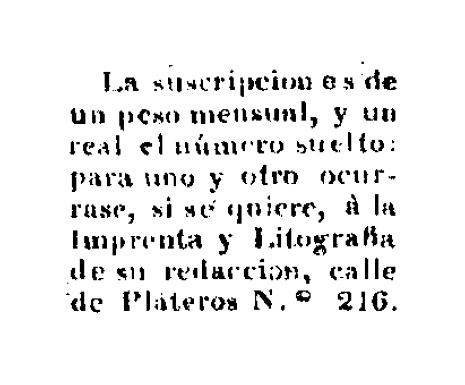
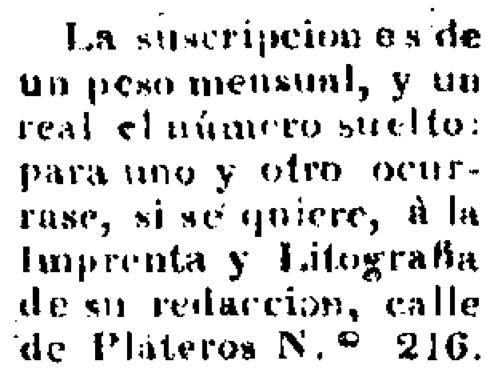
Se arreglo ejecucion de plt.figure( para articulo matplotlib backend

diff --git a/templates/codigo2.html b/templates/codigo2.html
@@ -4,7 +4,7 @@
     {% set languages = ["HTML", "CSS", "Javascript", "Python", "Ruby", "PHP", "Java"] %}
 
     <form action="/codigo" enctype="multipart/form-data">
-        <h1>RESULTADOS: </h1>
+        <h1>RESULTADOS DE PRUEBA: {{pr}} </h1>
         <ul>
             {% for n in nu %}
             <hr />
@@ -15,12 +15,12 @@
             <img src="{{ fn1[nu[n]] }}" alt="Imagen" class="image" alt="IMAGEN 1">
         </figure>
         <figure>
-            <figcaption style="text-align: center;"><code>Texto</code></figcaption>
+            <figcaption style="text-align: center;"><code>Texto de OCR</code></figcaption>
             <div class="text" >{{ txt[nu[n]] }}</div>
         </figure>
         <figure>
-            <figcaption style="text-align: center;"><code>% Reconocimiento</code></figcaption>
-            <div class="text"> {{ nu[n] }}</div>
+            <figcaption style="text-align: center;"><code>Texto Corregido</code></figcaption>
+            <div class="text"> {{ tcorr[n] }}</div>
         </figure>
         </div>
 

diff --git a/app.py b/app.py
@@ -6,6 +6,7 @@ UNSA-FIPS-DCC, 2025
 JMSF
 """
 filename=""
+pr=0
 from flask import Flask, render_template, request
 
 import os
@@ -20,6 +21,7 @@ except ImportError:
     from PIL import Image
 import prep_gvfc_balloon_1 as prp1
 import prep_gvfc_balloon_2 as prp2
+import post_pnorv_1 as postp1
 #import prep_balloon_final as prp2
 #import prep_gvfc_balloon_2 as prp2
 
@@ -75,7 +77,7 @@ def contacto():
 
 @app.route("/uploader", methods=['POST'])
 def uploader():
-    global filename
+    global filename,pr
     if request.method == "POST":
         oimg = request.form.get('otra')
         if oimg=='Otra Imagen':
@@ -86,6 +88,9 @@ def uploader():
             f = request.files['archivo']
 #        f = request.FILES['ufile'].file.name
             filename = secure_filename(f.filename)       # Nom Arch
+            if filename=="":
+               return render_template("codigo1.html", app_data=app_data, fn=filename)
+                
         filename1 = os.path.join(ruta, filename)         # Ruta+nom Arch
         fn,ex = os.path.splitext(filename)               # Nom Arch, Ext
         print("filename: ",filename)
@@ -98,45 +103,53 @@ def uploader():
         mtxt = []
         mimg = []
         mnum = []
+        mpst = []
         n=0
         ti=[]
         for s in su:
             print(int(s))
             if int(s)==0:
                 nu="0"
-                mtxt.append(ocrt(fn,imagen,nu))               # imagen original, ocr 0
-                mimg.append(filename1)
-                mnum.append(n)
-                ti.append("Imagen Original")
+                mimg.append(filename1)                        # Nomb imagen original
+                mtxt.append(ocrt(fn,imagen,nu))               # Agrega texto de ocr 0
+                mpst.append(postp1.palabr(ruta,fn+nu))        # Agrega texto corregido
+                mnum.append(n)                                # Agrega Num opcion
+                ti.append("Imagen Original")                  # Agrega titulo Imagen
             if int(s)==1:       
                 nu="1"
-                img,fn1 = prp1.preproc(imagen,fn+nu,ruta)      # imagen de preproceso 1
+                img,fn1 = prp1.preproc(imagen,fn+nu,ruta)      
+                mimg.append(fn1)                               # preproceso 1
                 mtxt.append(ocrt(fn,img,nu))                   # ocr 1
-                mimg.append(fn1)
+                mpst.append(postp1.palabr(ruta,fn+nu))         # Txt corregido 1
                 mnum.append(n)
                 ti.append("Imagen Algoritmo 1")
             if int(s)==2:       
                 nu="2"
-                img,fn2 = prp2.preproc2(imagen,fn+nu,ruta)     # preproceso 2
+                img,fn2 = prp2.preproc3(imagen,fn,nu,ruta)     
+                mimg.append(fn2)                               # preproceso 2
                 mtxt.append(ocrt(fn,img,nu))                   # ocr 2
-                mimg.append(fn2)
+                mpst.append(postp1.palabr(ruta,fn+nu))         # Txt corregido 2
                 mnum.append(n)
                 ti.append("Imagen Algoritmo 2")
             if int(s)==3:       
                 nu="3"
-                img,fn2 = prp2.preproc3(imagen,fn+nu,ruta)     # preproceso 3
-                mtxt.append(ocrt(fn,img,nu))                   # ocr 3
+                img,fn2 = prp2.preproc3(imagen,fn,nu,ruta)     # preproceso 3
                 mimg.append(fn2)
+                mtxt.append(ocrt(fn,img,nu))                   # ocr 3
+                mpst.append(postp1.palabr(ruta,fn+nu))         # Txt corregido 3
                 mnum.append(n)
                 ti.append("Imagen Algoritmo 3")
             n += 1
             print("mtxt: ",mtxt)
             print("mimg: ",mimg)
             print("mnum: ",mnum)
+            print("mpst: ",mpst)
+    pr+=1    
+    print("prueba: ",pr)
 #        mens=mult()
 #        graf()
 #    return render_template("codigo2.html", app_data=app_data, filename1=filename1, txt=mtxt)
-    return render_template("codigo2.html", app_data=app_data, fn1=mimg, txt=mtxt,nu=mnum,ti=ti)
+    return render_template("codigo2.html", app_data=app_data, fn1=mimg, txt=mtxt,tcorr=mpst,nu=mnum,ti=ti,pr=pr)
 
 def p_():
     f = request.files['archivo']

diff --git a/post_pnorv_1.py b/post_pnorv_1.py
@@ -52,37 +52,40 @@ def corregir(palabra):
     return max(correcciones(palabra), key=probabilidad)
 
 # Ejemplo de uso
-texto_1 = ['La siscripcion es de',
-    'un peso mesual, y un',
-    'real el llúmero suelto:',
-    'para iino y otro ocur-',
-    'rase, si se cjuiere, a la',
-    'Imprenta y Litiigrafia',
-    'de sii redacción, calle',
-    'de Plateros No 216']
+#texto_1 = ['La siscripcion es de',
+#    'un peso mesual, y un',
+#    'real el llúmero suelto:',
+#    'para iino y otro ocur-',
+#    'rase, si se cjuiere, a la',
+#    'Imprenta y Litiigrafia',
+#    'de sii redacción, calle',
+#    'de Plateros No 216']
 #for palabras_t in texto_1:
 #    print(f'Origen   : {palabras_t}')
 #    palabras_texto = palabras_t.split()
 #    texto_corregido = ' '.join(corregir(palabra) for palabra in palabras_texto)
 #    print(f'Corregido: {texto_corregido}')
 
-ruta="static"
-fn="hist_02"
-fn1=os.path.join(ruta, fn+".txt")
-fn2=os.path.join(ruta, fn+"1.txt")
-arch_1 = open(fn1,"r")
-arch_2 = open(fn2,"w")
+def palabr(ruta,fn):
+#ruta="static"
+#fn="hist_02"
+    fn1=os.path.join(ruta, fn+".txt")
+    fn2=os.path.join(ruta, fn+"1.txt")
+    arch_1 = open(fn1,"r")
+    arch_2 = open(fn2,"w")
 
 #with open(fn1, "r") as archivo:
-with arch_1 as archivo:
-    contenido = archivo.read()
-    print(contenido)
-    palabras_t = contenido.split()
-    t_corregido = ' '.join(corregir(palabra) for palabra in palabras_t)
-    print(f'Corregido: {t_corregido}')
-    arch_2.write(t_corregido)
-arch_1.close()
-arch_2.close()
+    with arch_1 as archivo:
+        contenido = archivo.read()
+#        print(contenido)
+        palabras_t = contenido.split()
+        t_corregido = ' '.join(corregir(palabra) for palabra in palabras_t)
+#        print(f'Corregido: {t_corregido}')
+        arch_2.write(t_corregido)
+    arch_1.close()
+    arch_2.close()
+
+    return t_corregido
 
 #texto_incompleto = "Esto es un ejmpl de palabas correidas por algorimo."
 #texto_incompleto = "Ejmplo de txto con plabas incmpletas y mal escritas."

diff --git a/prep_gvfc_balloon_2.py b/prep_gvfc_balloon_2.py
@@ -132,12 +132,13 @@ def preproc2(image,fn,ruta):
 #	plt.axis([-nu, width+nu, -nu, height+nu])
 #	plt.title("Magnitud GVF 2")
 #	plt.subplot(223)
+
 	plt.imshow(imagen_binaria, cmap="gray")    # 3
 	plt.axis([-nu, width+nu, -nu, height+nu])
-	plt.gca().set_axis_off()
-	fn1=os.path.join(ruta,fn+".jpg")
-	plt.savefig(fn1, dpi=100, bbox_inches='tight', pad_inches=0)
-	plt.close()
+#    plt.gca().set_axis_off()
+#    fn1=os.path.join(ruta,fn+".jpg")
+#    plt.savefig(fn1, dpi=100, bbox_inches='tight', pad_inches=0)
+#    plt.close()
 #    fn1=os.path.join("static","hist_02.jpg")
 #    plt.gca().set_axis_off()
 
@@ -148,9 +149,10 @@ def preproc2(image,fn,ruta):
 #	plt.title("GVF final 4")
 
 #	plt.show()
-	return Image.open(fn1),fn1
+#    return Image.open(fn1),fn1
 
-def preproc3(image,fn,ruta):
+def preproc3(image,fn,n,ruta):
+	fn=fn+n
 #if __name__ == "__main__":
 	# Cargar la imagen
 #	filename = "car_4.jpg"
@@ -183,8 +185,9 @@ def preproc3(image,fn,ruta):
 #		for i in range(height): writer.writerow([round(imagen_binaria[i, j], 3) for j in range(width)])
 
 	# Mostrar la imagen original y el resultado del GVF
-	nu=50
-	fig = plt.figure(figsize=(10, 5))
+	nu=0
+#	fig = plt.figure(figsize=(10, 5))
+	plt.figure(figsize=(10, 5))
 #	fig.canvas.manager.set_window_title("TESIS")
 #	plt.subplot(221)
 #	plt.imshow(image[::-1], cmap="gray")       # 1
@@ -203,8 +206,15 @@ def preproc3(image,fn,ruta):
 
 #	plt.title("Imagen Binaria 3")
 #	plt.subplot(224)
-	plt.imshow(result_matrix, cmap="gray")     # 4
-	plt.axis([-nu, width+nu, -nu, height+nu])
+	if n=="2":
+		img=plt.imshow(imagen_binaria, cmap="gray")    # 3
+	else:
+		img=plt.imshow(result_matrix, cmap="gray")     # 4
+
+#	img_r = np.rot90(img, k=2, axes={0,1})
+#	plt.imshow(img_r)
+#	plt.axis([-nu, width+nu, -nu, height+nu])
+	plt.axis([-nu, width, -nu, height])
 	plt.gca().set_axis_off()
 	fn1=os.path.join(ruta,fn+".jpg")
 	plt.savefig(fn1, dpi=100, bbox_inches='tight', pad_inches=0)

diff --git a/prep_gvfc_balloon_1.py b/prep_gvfc_balloon_1.py
@@ -1,5 +1,7 @@
 import os
 
+import matplotlib
+matplotlib.use('agg')
 import cv2
 import csv
 import numpy as np
@@ -196,8 +198,9 @@ def preproc(image,fn,ruta):
 	#		})
 
 	# Mostrar la imagen original y el resultado del GVF
-    fig = plt.figure(figsize=(10, 5))
-    fig.canvas.manager.set_window_title('TESIS')
+#    fig = plt.figure(figsize=(10, 5))
+    plt.figure(figsize=(10, 5))
+#    fig.canvas.manager.set_window_title('TESIS')
 
 #    plt.subplot(131)
 #    plt.quiver(test_u[::-1],-test_v[::-1], angles="xy")
@@ -207,12 +210,14 @@ def preproc(image,fn,ruta):
 
 #    plt.subplot(132)
 #    plt.imshow(np.sqrt(u**2 + v**2), cmap="gray")
-    img2 = plt.imshow(np.sqrt(u**2 + v**2), cmap="gray_r")
+#    img2 = plt.imshow(np.sqrt(u**2 + v**2), cmap="gray_r")
+    plt.imshow(np.sqrt(u**2 + v**2), cmap="gray_r")
 #    plt.savefig('testplot.png')
     fn1=os.path.join(ruta, fn+".jpg")
 #    plt.figure(figsize=(2, 1))
     plt.gca().set_axis_off()
     plt.savefig(fn1, dpi=100, bbox_inches='tight')
+    plt.close()
 
 #    img2
 #    plt.title("Resultado 2: Magnitud Campo GVF")
